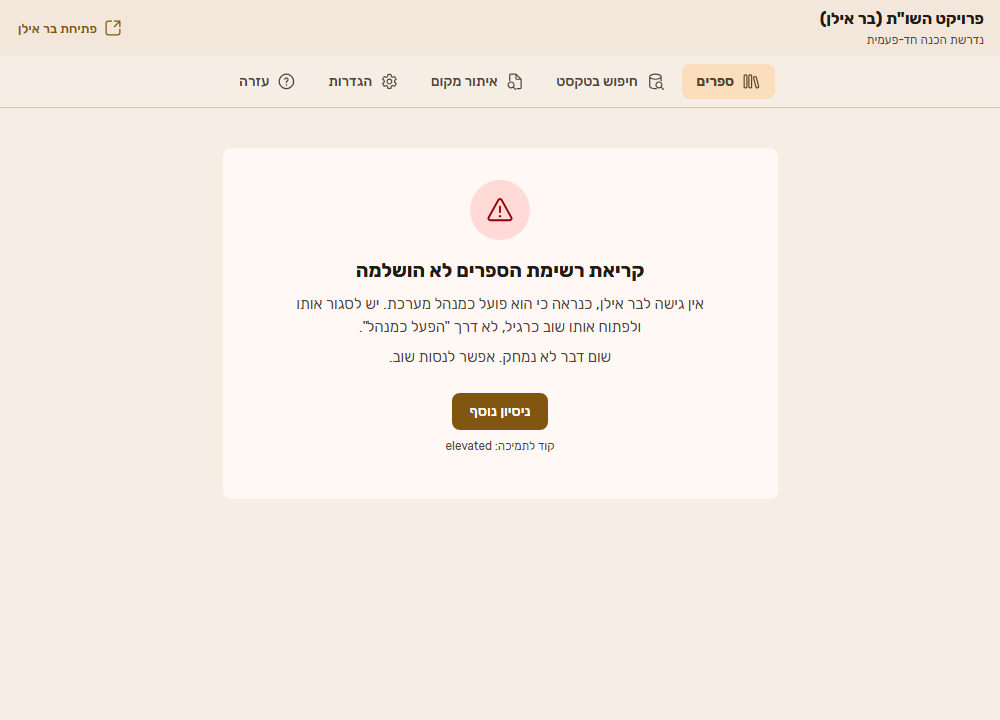
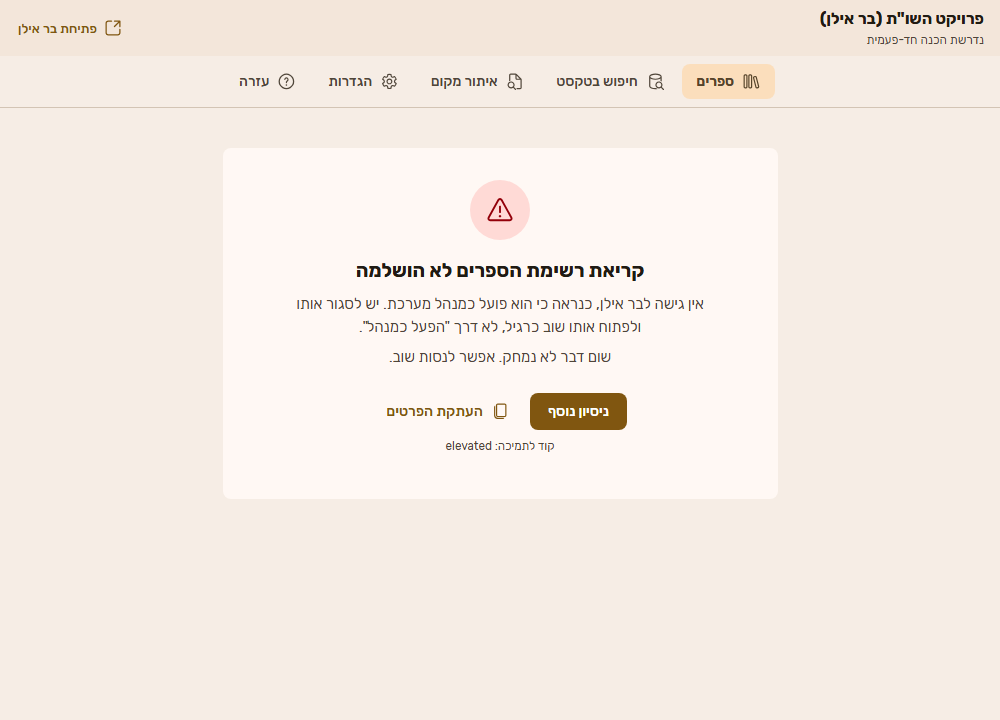
CI ותיעוד: מתקין בשם קבוע, הערות גרסה מ-CHANGELOG, ובדיקת אזהרות מדויקת
- כל Release מצרף OtzariaResponsa-Setup.exe, כך ש-
  .../releases/latest/download/OtzariaResponsa-Setup.exe מוריד תמיד את
  האחרון. הערות הגרסה מהסעיף שלה ב-CHANGELOG.
- validator-warnings.js: מספר האזהרות חייב להיות בדיוק מספר הרשאות הבסיס
  המוצהרות, וקלט ריק נכשל; build.ps1 מקבל את המספר גם בתוך Actions.
- PROTOCOL (/diagnostics), USER_GUIDE (קישור קבוע, מחשב בלי אינטרנט, מה
  נשלח בדיווח, פתרון בעיות), ARCHITECTURE, README, CHANGELOG, צילומי מסך.

Changed region(s): [[0.372, 0.5194, 0.651, 0.6111]]

diff --git a/tools/validator-warnings.js b/tools/validator-warnings.js
@@ -1,6 +1,9 @@
 // האם מספר האזהרות של הוולידטור הרשמי מותר. מותרות רק ההמלצות להסיר הרשאת
 // בסיס מוצהרת (אחת לכל הרשאה כזו במניפסט), וכל אזהרה אחרת מכשילה.
 //
+// המספר חייב להיות שווה בדיוק: אם הוולידטור יפסיק להמליץ על הרשאת הבסיס,
+// אזהרה אחרת לא תעבור במקומה בשקט, והבדיקה תיכשל עד שיעודכן כאן.
+//
 // למה: אוצריא דורשת להצהיר על plugin.storage.read כשפעולה במניפסט משתמשת
 // ב-$storage (Otzaria#1762), והוולידטור (v1.19.1) עדיין ממליץ להסיר אותה כי
 // היא הרשאת בסיס. החנות אינה חוסמת על ההמלצה הזו.
@@ -22,14 +25,16 @@ const BASELINE = new Set([
 const [manifestPath, countText] = process.argv.slice(2);
 const manifest = require(path.resolve(manifestPath));
 const allowed = (manifest.permissions || []).filter((permission) => BASELINE.has(permission)).length;
-const count = Number(countText);
-if (!Number.isInteger(count) || count < 0) {
+const count = /^\d+$/.test(String(countText || '').trim()) ? Number(countText) : NaN;
+if (!Number.isInteger(count)) {
   console.error('::error::מספר אזהרות לא תקין: ' + countText);
   process.exit(1);
 }
-if (count > allowed) {
+if (count !== allowed) {
   console.error(
-    `::error::הוולידטור החזיר ${count} אזהרות, ומותרות ${allowed} (הרשאות בסיס מוצהרות). את השאר מתקנים.`,
+    count > allowed
+      ? `::error::הוולידטור החזיר ${count} אזהרות, ומותרות ${allowed} (הרשאות בסיס מוצהרות). את השאר מתקנים.`
+      : `::error::הוולידטור החזיר ${count} אזהרות, וצפויות ${allowed} (הרשאות בסיס מוצהרות). ייתכן שהוולידטור השתנה: בדקו ועדכנו את הכלי הזה.`,
   );
   process.exit(1);
 }

diff --git a/tools/preview/stub.js b/tools/preview/stub.js
@@ -129,7 +129,7 @@
               ok: true,
               service: 'otzaria-responsa',
               apiVersion: scenario === 'serviceOutdated' ? 2 : 1,
-              serverVersion: '0.5.0',
+              serverVersion: '0.5.1',
               capabilities: params.get('oldservice')
                 ? ['catalog', 'open', 'icon', 'searchText', 'export']
                 : [
@@ -145,10 +145,19 @@
                     'notify',
                     'locate',
                     'autoStart',
+                    'diagnostics',
                   ],
             };
       case '/status':
         return status();
+      case '/diagnostics':
+        return {
+          summary:
+            'service 0.5.1, Windows 10 Pro 10.0 (Build 26200), up 0h05m, session 1\n' +
+            'installation: C:\\Program Files (x86)\\ResponsaCD25, edition 25, from registry, exe ok, archive ok, running: no\n' +
+            'book list: 8392 books, edition 25, schema 7, 465701 rows, read 2026-10-06T10:03:35',
+          logTail: '2026-10-06 10:03:35 BuildCoordinator: book list read OK: 8392 books from 465701 rows',
+        };
       case '/catalog/search':
         return search(body);
       case '/catalog/browse':
@@ -255,7 +264,7 @@
 
   window.addEventListener('load', () => {
     const payload = {
-      plugin: { id: 'com.otzaria-responsa', version: '0.5.0' },
+      plugin: { id: 'com.otzaria-responsa', version: '0.5.1' },
       app: {
         version: '0.9.98',
         platform: scenario === 'unsupported' ? 'linux' : 'windows',

diff --git a/docs/USER_GUIDE.md b/docs/USER_GUIDE.md
@@ -56,13 +56,12 @@
 
 ### שלב 1: הורדת המתקין
 
-1. היכנסו לדף ההורדות: <https://github.com/mmichaelush/otzaria-responsa-plugin/releases/latest>
-2. בחלק **Assets** לחצו על הקובץ ששמו מתחיל ב-**`OtzariaResponsa-Setup`** ומסתיים ב-**`.exe`**.
-   - לא על הקובץ שמסתיים ב-`.otzplugin`;
-   - ולא על "Source code".
-3. **אם הדפדפן כותב שהקובץ "אינו מוריד בדרך כלל":** לחצו על שלוש הנקודות שליד ההודעה ← **"שמור"** ← **"שמור בכל זאת"**.
-4. **אם ההורדה לא מתחילה בכלל:** ייתכן שהסינון חוסם את האתר. אפשר לבקש את הקובץ ב[פורום אוצריא](https://otzaria.org/forum).
-5. **אין אינטרנט במחשב הזה?** הורידו את המתקין במחשב אחר, והעבירו אותו בדיסק און קי. אחרי ההתקנה אין צורך באינטרנט.
+1. **הורדה ישירה של הגרסה האחרונה:** <https://github.com/mmichaelush/otzaria-responsa-plugin/releases/latest/download/OtzariaResponsa-Setup.exe>
+   - הקישור קבוע: הוא מוריד תמיד את המתקין העדכני.
+   - או מדף ההורדות (<https://github.com/mmichaelush/otzaria-responsa-plugin/releases/latest>), בחלק **Assets**: הקובץ **`OtzariaResponsa-Setup.exe`** (או `OtzariaResponsa-Setup-<גרסה>.exe`, אותו קובץ). לא הקובץ שמסתיים ב-`.otzplugin`, ולא "Source code".
+2. **אם הדפדפן כותב שהקובץ "אינו מוריד בדרך כלל":** לחצו על שלוש הנקודות שליד ההודעה ← **"שמור"** ← **"שמור בכל זאת"**.
+3. **אם ההורדה לא מתחילה בכלל:** ייתכן שהסינון חוסם את האתר. אפשר לבקש את הקובץ ב[פורום אוצריא](https://otzaria.org/forum).
+4. **אין אינטרנט במחשב הזה?** הורידו את המתקין במחשב אחר, והעבירו אותו בדיסק און קי. **המתקין כולל גם את התוסף לאוצריא**, ולכן אין צורך בחנות התוספים. אחרי ההתקנה אין צורך באינטרנט.
 
 > **התוסף כבר מותקן באוצריא** ומציג "צריך להתקין רכיב קטן"? אפשר ללחוץ שם על **"הורדת המתקין"**. זה אותו קובץ.
 
@@ -137,7 +136,7 @@
 
 2. **בר אילן ייפתח לבד ויעבוד לבד.**
    - אל תלחצו בו ואל תסגרו אותו עד שהקריאה תסתיים. ספרים פתוחים בבר אילן כדאי לסגור לפני ההתחלה.
-   - המחשב לא ייכנס למצב שינה בזמן הקריאה. אם בר אילן מפסיק להגיב לרגע, הקריאה מחכה לו וממשיכה.
+   - המחשב לא ייכנס למצב שינה מחוסר פעילות בזמן הקריאה, והמסך יישאר דלוק. אם בר אילן מפסיק להגיב לרגע, הקריאה מחכה לו (עד שלוש דקות) וממשיכה.
    - אפשר להמשיך לעבוד באוצריא בינתיים, וגם לסגור את לשונית התוסף. הקריאה ממשיכה.
    - רוצים לעצור? לחצו **"ביטול"**. אפשר להתחיל שוב מתי שתרצו.
 
@@ -397,8 +396,8 @@
 - **קישורים:** המדריך הזה, התוסף בחנות התוספים של אוצריא, דף התוסף ב-GitHub, דיווח או הצעה ב-GitHub, והורדת הגרסה האחרונה. **בלי אינטרנט** הקישורים לא נפתחים, ומוצגת הכתובת במקום.
 - **"פנייה במייל":** הכתובת של המפתח, **michaelush613@gmail.com**, עם כפתור העתקה ו"כתיבת מייל" (פותח את תוכנת הדואר שבמחשב, כשיש).
 - **"דיווח על בעיה":** כותבים מה ניסיתם לעשות ומה קרה (לפחות עשרה תווים), ולוחצים **"שליחת דיווח"**.
-  - הדיווח עובר למפתח דרך אוצריא, יחד עם פרטי המערכת ויומן הפעולות האחרונות.
-  - **בלי תוכן אישי ובלי נתיבים:** מיקום ההתקנה אינו נשלח, ושם המשתמש מושמט.
+  - הדיווח עובר למפתח דרך אוצריא, יחד עם פרטי המערכת, יומן הפעולות האחרונות (כולל חיפושים וספרים שנפתחו) ויומן השירות (מהדורות בר אילן שנמצאו במחשב ומיקומן, ומה קרה בקריאת רשימת הספרים). כך אפשר למצוא את שורש התקלה בלי לבקש מכם פרטים נוספים.
+  - **שם המשתמש מושמט** מכל נתיב.
   - אוצריא מבקשת אישור לפני השליחה.
   - **בלי אינטרנט** הדיווח נשמר, ויישלח כשיהיה חיבור.
 
@@ -409,7 +408,7 @@
 **התוסף עובד בלי אינטרנט.** החיפוש, פרטי הספרים, הפתיחה בבר אילן והחיפוש בלחיצה ימנית קורים כולם במחשב שלכם.
 
 מה כן צריך אינטרנט:
-- **הורדת המתקין.** אם אין אינטרנט במחשב, מסך "צריך להתקין רכיב קטן" מסביר: מורידים את המתקין במחשב אחר, ומעבירים אותו בדיסק און קי.
+- **הורדת המתקין.** במחשב בלי אינטרנט בכלל: מורידים במחשב אחר את המתקין (<https://github.com/mmichaelush/otzaria-responsa-plugin/releases/latest/download/OtzariaResponsa-Setup.exe>) ומעבירים אותו בדיסק און קי. המתקין כולל את השירות ואת התוסף לאוצריא, ואין צורך בחנות התוספים.
 - **הקישורים ב"אודות ודיווח".** בלי אינטרנט הם לא נפתחים, ומוצגת הכתובת. ההדרכה שבתוך התוסף ("איך משתמשים") זמינה תמיד.
 - **שליחת דיווח.** הוא נשמר, ויישלח כשיהיה חיבור.
 
@@ -440,7 +439,7 @@
 | **"השירות לא מגיב כרגע"** | הרכיב פועל אבל לא עונה | "בדיקה חוזרת". אם זה חוזר, הפעילו מחדש את המחשב. אם גם זה לא עוזר: "העתקת הפרטים", ושלחו אותם (ראו "אודות ודיווח") |
 | **"צריך לעדכן את שירות בר אילן"** או **"צריך לעדכן את התוסף"** | גרסת השירות וגרסת התוסף לא מתאימות | "הורדת הגרסה החדשה" והתקנה. המתקין מעדכן את שניהם |
 | **"בר אילן לא נמצא במחשב"** | תוכנת פרויקט השו"ת לא מותקנת | התקינו את בר אילן. המסך יתעדכן מעצמו |
-| **"קריאת רשימת הספרים לא הושלמה"** | משהו הפריע בזמן הקריאה | קראו את ההסבר במסך ולחצו "ניסיון נוסף". שום דבר לא נמחק |
+| **"קריאת רשימת הספרים לא הושלמה"** | משהו הפריע בזמן הקריאה | קראו את ההסבר במסך: הוא אומר אם בר אילן לא הגיב, אם החלון "עיון" נסגר, או אם בר אילן עצמו נסגר (קרס). סגרו את הספרים הפתוחים בבר אילן, אל תעבדו בו בזמן הקריאה, ולחצו "ניסיון נוסף". שום דבר לא נמחק. אם זה חוזר: "העתקת הפרטים", ושלחו אותם |
 | **"אין גישה לבר אילן, כנראה כי הוא פועל כמנהל מערכת"** (בתוך המסך הקודם) | בר אילן נפתח עם "הפעל כמנהל" | סגרו את בר אילן, פתחו אותו רגיל (לחיצה כפולה על הסמל), ולחצו "ניסיון נוסף" |
 | **"בר אילן הופעל אך לא עלה בתוך … שניות"** או **"בר אילן (…) אינו פעיל"** | בר אילן איטי לעלות | פתחו את בר אילן בעצמכם, חכו שייטען עד הסוף, ונסו שוב |
 | **"תוכנה אחרת תופסת את החיבור של השירות"** | תוכנה אחרת במחשב משתמשת באותו חיבור (מספר פנימי במחשב, אין מה לשנות) | הפעילו מחדש את המחשב. אם זה חוזר, פנו לתמיכה |

diff --git a/CHANGELOG.md b/CHANGELOG.md
@@ -7,19 +7,25 @@
 ### תוסף
 
 - **העדכון ל-0.5 נכשל באוצריא 0.9.98** ("שגיאה בהתקנת התוסף … `$storage requires permission "plugin.storage.read"`"). אוצריא דורשת להצהיר על ההרשאה כשפעולה בלחיצה ימנית או בחיפוש הספרייה משתמשת ב-`$storage` (Otzaria/otzaria#1762). המניפסט מצהיר עליה. זו הרשאת בסיס, ואין בקשת הרשאה חדשה.
-- **"השירות לא מגיב כרגע":** כפתור "העתקת הפרטים" בכרטיס, עם ההודעה המלאה של השירות, לצירוף לפנייה.
+- **"השירות לא מגיב כרגע" וכשל בקריאת הרשימה:** כפתור "העתקת הפרטים" בכרטיס.
+- **התקדמות קריאת הרשימה כשאין לה אחוז** (קריאה ראשונה בכל מהדורה מלבד 25 ו-29): "נקראו 152,000 שורות בעץ של בר אילן · חלק 7 מתוך 20", ולא רק "חלק 7 מתוך 20", כדי שקריאה איטית לא תיראה תקועה.
+- **"הורדת המתקין" מוריד ישר את המתקין האחרון** (הקישור הקבוע), במקום לפתוח את דף ההורדות. בלי אינטרנט מוצגת הכתובת, להורדה במחשב אחר.
+- **דיווח על בעיה ו"העתקת הפרטים" כוללים את פרטי השירות** (`/diagnostics`): ההתקנות של בר אילן שנמצאו, כוננים שאינם זמינים, מצב רשימת הספרים, הקריאה האחרונה שלה, וסוף יומן השירות. בדיקה שחוזרת כל כמה שניות נכתבת ביומן פעם אחת, עם מספר החזרות, ולא דוחקת עוד את שורות הפתיחה מהדיווח.
 
 ### שירות
 
+- **`GET /diagnostics`** (יכולת `diagnostics`): סיכום קצר וסוף היומן, לאיתור תקלה במחשב של משתמש. ביומן נרשמים גם תחילת כל קריאה של הרשימה (מהדורה, מופע, מספר חלונות הספרים), כל ענף (שורות ושניות), ובכשל: המקום בעץ, ההודעה שלא נענתה, והאם בר אילן קרס (קוד היציאה). היומן מסובב גם בזמן ריצה.
 - **"השירות לא מגיב כרגע" (קוד `internal`) בכל פתיחה,** במחשב עם כונן שאינו זמין: כונן DVD או קורא כרטיסים ריק, כונן רשת מנותק, כונן נעול. חיפוש ההתקנות של בר אילן נעצר בחריגה על כונן כזה. עכשיו הוא מדלג עליו, ומקור אחד שנכשל (Registry, כוננים, מופעים פועלים) אינו מבטל את האחרים.
 - **קריאת רשימת הספרים עמידה יותר:**
   - כשבר אילן מפסיק להגיב באמצע (יציאה משינה, ספר שנטען, חיפוש), הקריאה מחכה לו עד שלוש דקות וממשיכה מאותו מקום. קודם הודעה אחת שלא נענתה זרקה את כל הקריאה;
-  - המחשב אינו נכנס למצב שינה מחוסר פעילות בזמן הקריאה;
+  - המחשב אינו נכנס למצב שינה מחוסר פעילות בזמן הקריאה, והמסך נשאר דלוק (במחשבים עם Modern Standby כיבוי המסך הוא הכניסה לשינה);
   - אחרי קריאה שנכשלה, הענפים שנפתחו בבר אילן נסגרים גם כשהוא חוזר להגיב רק אחרי רגע, כדי שלא יישאר איטי לניסיון הבא;
-  - הודעת הכשל מסבירה מה כנראה קרה ומה לעשות.
+  - הודעת הכשל מסבירה מה כנראה קרה ומה לעשות, ומבחינה בין בר אילן שלא הגיב, חלון "עיון" שנסגר, ובר אילן שנסגר (קרס) באמצע;
+  - "ביטול" בזמן שהקריאה מחכה לבר אילן הוא ביטול, ולא "הקריאה לא הושלמה".
 
-### מתקין
+### מתקין והורדה
 
+- **קישור קבוע למתקין האחרון:** https://github.com/mmichaelush/otzaria-responsa-plugin/releases/latest/download/OtzariaResponsa-Setup.exe. כל גרסה מצרפת עותק בשם הקבוע, והערות הגרסה ב-GitHub נלקחות מ-CHANGELOG.
 - **לא מציע את התוסף לאוצריא ישנה מ-`minAppVersion`.** במקום שגיאה של אוצריא, מסך הסיום מסביר שצריך לעדכן אותה, ושהתוסף שכבר מותקן ממשיך לעבוד עם השירות.
 
 ## 0.5.0

diff --git a/docs/PROTOCOL.md b/docs/PROTOCOL.md
@@ -76,9 +76,9 @@
 
 ```json
 { "ok": true, "service": "otzaria-responsa", "apiVersion": 1,
-  "serverVersion": "0.5.0",
+  "serverVersion": "0.5.1",
   "capabilities": ["catalog", "open", "icon", "searchText", "export", "browse", "otzariaIcons",
-                   "advancedSearch", "showResponsa", "notify", "locate", "autoStart"],
+                   "advancedSearch", "showResponsa", "notify", "locate", "autoStart", "diagnostics"],
   "sessionId": 1 }
 ```
 
@@ -325,6 +325,17 @@
 - **למה:** התוסף מצייר את האייקונים של אוצריא עצמה, בגרסה שמותקנת אצל המשתמש, בלי לארוז אותם. כל שם שאין לו גליף נשאר מהאייקונים שבתוסף (FluentUI, MIT).
 - **שגיאות:** 404 `notFound` כשהגופן לא נמצא או לא נקרא.
 
+### `GET /diagnostics`
+יכולת `diagnostics` (מ-0.5.1). מה שצריך כדי למצוא את שורש התקלה במחשב של משתמש. התוסף מצרף אותו ל"העתקת הפרטים" ולדיווח על בעיה.
+
+```json
+{ "summary": "service 0.5.1, Windows 10 Pro 10.0 (Build 26200), up 3h12m, session 1\ninstallation: …", "logTail": "2026-10-06 00:18:26 HttpApi: GET /status: …" }
+```
+
+- **`summary`:** שורות קצרות באנגלית: גרסת השירות ו-Windows; כל התקנה של בר אילן (נתיב, מהדורה, מקור, קובץ הרצה, ארכיון, מופעים פועלים ומספר חלונות הספרים בהם); כוננים שאינם זמינים; מצב רשימת הספרים; הקריאה האחרונה של הרשימה (משך, תוצאה, עד היכן הגיעה).
+- **`logTail`:** סוף `helper.log`, עד 80 רשומות ו-6,000 תווים. בקשות שהצליחו מסוננות, עקבות מחסנית מקוצרות לשש שורות, וקבוצה של עד ארבע רשומות שחוזרת ברצף מופיעה פעם אחת עם מספר החזרות.
+- **נבנה רק לבקשה**, ולכן אינו נכתב ליומן בכל בדיקה תקופתית. שם המשתמש בנתיבים מושמט בתוסף (`Log.scrub`), לפני שהטקסט יוצא מהמחשב.
+
 ## 5. מיקומים
 
 | מה | איפה |
@@ -385,4 +396,5 @@
   - 0.3.0: `browse` (`/catalog/browse`, ו-`path` ב-`/catalog/search`), `otzariaIcons` (`/otzaria/icons`). תוסף 0.3.0 מול שירות ישן מסתיר את העיון ומציג הערה "כדאי להוריד את הגרסה החדשה".
   - 0.4.0: `advancedSearch` (`advanced`, `options`, `scope` ב-`/text/search`), `showResponsa` (`/responsa/show`). מול שירות ישן הדיאלוג מציג "כדאי להוריד את הגרסה החדשה", וכפתור "פתיחת בר אילן" אינו מוצג.
   - 0.5.0: `notify` (`notify: true` ב-`/text/search` וב-`/book/open`; `message` ו-`severity` ברמה העליונה של כל שגיאה), `locate` (`/reference/open`), `autoStart` (§4), `key` מספרי ב-`/book/open`. קטלוג בסכימה 7 (ספר בתוך ספר: ספר יחיד תחת ספר אחר, כמו "גינת ורדים כללים"), שמסמן קטלוג קודם כישן. מול שירות ישן הלשונית "איתור מקום" מציגה "כדאי להוריד את הגרסה החדשה".
+  - 0.5.1: `diagnostics` (`/diagnostics`). מול שירות ישן הדיווח נשלח בלי פרטי השירות.
 - **שדות לא מוכרים:** התוסף מתעלם משדות שאינו מכיר.

diff --git a/docs/ARCHITECTURE.md b/docs/ARCHITECTURE.md
@@ -335,9 +335,10 @@ sequenceDiagram
 
 1. **רישום:** כל רכיב כותב ל-`ResponsaLog.shared`. info ומעלה מועתק ל-console, ואוצריא כותבת אותו ליומן שלה כ-`Plugin [com.otzaria-responsa]: [responsa] …`. כך רואים גם מה קרה כשהלשונית לא הייתה מוצגת.
 2. **"מצב המערכת"** (עזרה): פרטי המערכת (`Panels.statusFacts`) ו"פעולות אחרונות": 40 הרשומות האחרונות מ-info ומעלה, מהחדשה לישנה. הרשימה מתעדכנת כשהכרטיסייה פתוחה.
-3. **"העתקת הפרטים"** (`App._diagnostics`): הפרטים, כולל מיקום ההתקנה, ועד 150 רשומות אחרונות (גם debug). נתיבי `C:\Users\<שם>` מקוצרים (`scrub`).
-4. **"שליחת דיווח"** (`feedback.report`, `reportType: bug`): התיאור, הפרטים **בלי** מיקום ההתקנה, ואחריהם סוף היומן, בכמה שנכנס. הכול עד 5,000 תווים. אוצריא מציגה אישור משלה לפני השליחה.
-5. **מסכי כשל** (שירות לא מגיב, קריאת הרשימה נכשלה) מציגים "קוד לתמיכה: <code>" (`model.errorCode`), כדי שהמשתמש יוכל לצטט אותו.
+3. **"העתקת הפרטים"** (`App._diagnostics`, `Domain.diagnosticsText`): הפרטים, כולל מיקום ההתקנה; כל יומן הפעולות (גם debug), מקוצר (`Log.text({ compact: true })`: קבוצה של עד 4 שורות שחוזרת ברצף נשארת פעם אחת, עם "חזרו עוד N פעמים, עד <שעה>"); ופרטי השירות מ-`GET /diagnostics` (סיכום וסוף `helper.log`). נתיבי `C:\Users\<שם>` מקוצרים (`scrub`).
+4. **"שליחת דיווח"** (`feedback.report`, `reportType: bug`, `Domain.reportDetails`): עד 5,000 תווים (התקרה של אוצריא), בשורות שלמות, בסדר הזה: התיאור; הפרטים **בלי** מיקום ההתקנה; סיכום השירות; שורות הפתיחה של היומן (`startup`: ארבע רשומות info הראשונות, שאינן נדחקות מהיומן) ואחריהן סופו; סוף יומן השירות (שמור לו עד 1,200 תווים). אוצריא מציגה אישור משלה לפני השליחה.
+5. **מסכי כשל** (שירות לא מגיב, קריאת הרשימה נכשלה) מציגים "קוד לתמיכה: <code>" (`model.errorCode`) וכפתור "העתקת הפרטים".
+6. **יומן השירות** (`helper.log`): תחילת כל קריאה של הרשימה (מהדורה, מופע, חלונות ספרים), שורה לכל ענף (שורות ושניות), ובכשל: המקום בעץ, ההודעה שלא נענתה, והאם בר אילן יצא (קוד היציאה). מסתובב ב-2MB, גם בזמן ריצה.
 
 ---
 

diff --git a/README.md b/README.md
@@ -20,7 +20,7 @@
 
 ## התקנה
 
-1. הורידו את **`OtzariaResponsa-Setup-….exe`** מ[דף ההורדות](https://github.com/mmichaelush/otzaria-responsa-plugin/releases/latest).
+1. הורידו את המתקין: **[OtzariaResponsa-Setup.exe](https://github.com/mmichaelush/otzaria-responsa-plugin/releases/latest/download/OtzariaResponsa-Setup.exe)** (קישור קבוע לגרסה האחרונה; גם ב[דף ההורדות](https://github.com/mmichaelush/otzaria-responsa-plugin/releases/latest)). במחשב בלי אינטרנט: מעבירים את הקובץ בדיסק און קי. הוא כולל גם את התוסף לאוצריא.
 2. הריצו אותו. אין צורך בהרשאות מנהל.
 3. אשרו את התקנת התוסף באוצריא, והדליקו את ההרשאה "הוספת רכיבים לתוכנה".
 
